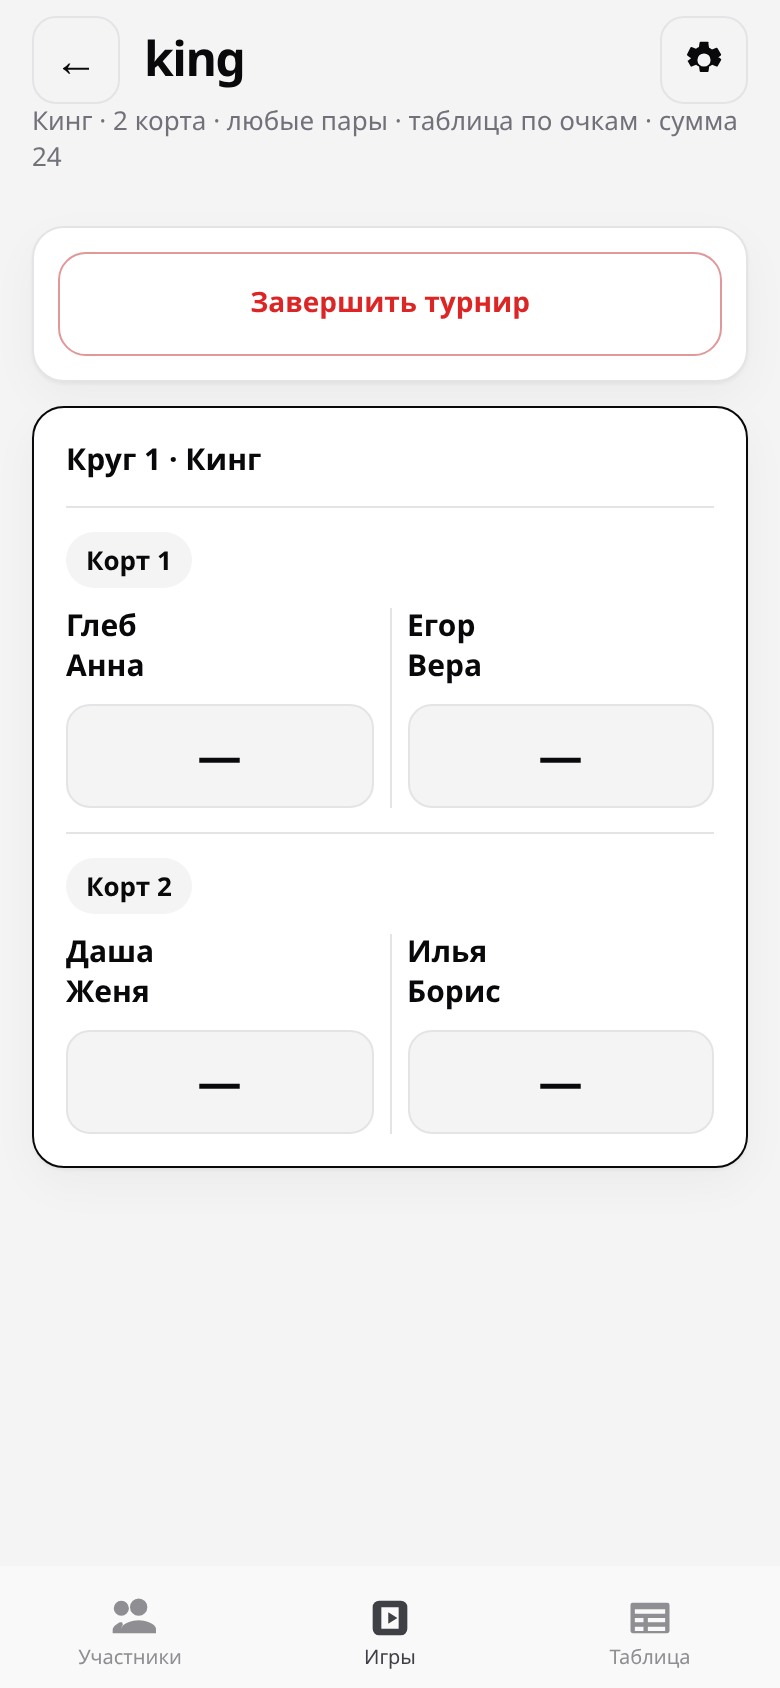
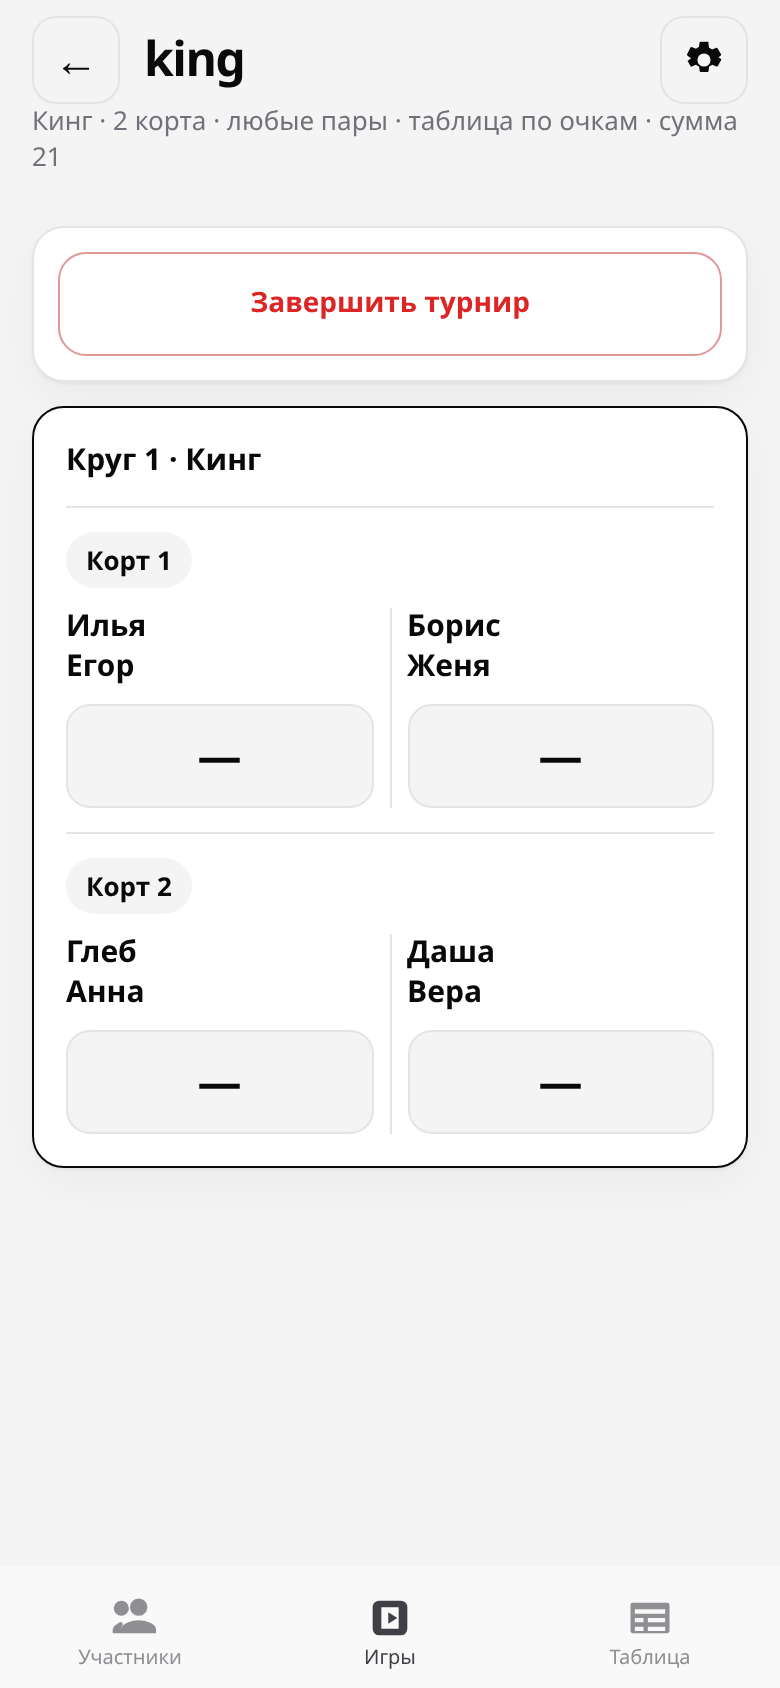
fix(tracker): sum-points chips 15/17/19/21 (#18)
Americano / «по сумме» presets were even (16/24/32). Chips are now
15, 17, 19, 21 and Своё on create and in-game settings. Saved 16/24/32
become custom. Default sum target is 21. Cache-bust to 0.7.13.

diff --git a/tracker/js/state.js b/tracker/js/state.js
@@ -24,18 +24,18 @@ export function defaultSettings() {
     pairLock: 'locked',
     lockedMatchups: 'strength',
     standingsSort: 'points',
-    totalPoints: 24,
-    customTotal: 24,
+    totalPoints: 21,
+    customTotal: 21,
   };
 }
 
-/** Настройки по формату. Lunda-подобные: сумма очков 16/21/24/32, без win-by-2. */
+/** Настройки по формату. Lunda-подобные: сумма очков 15/17/19/21, без win-by-2. */
 export function defaultSettingsFor(format) {
   const settings = defaultSettings();
   settings.tournamentFormat = format || 'free';
   if (format && format !== 'free') {
     settings.scoringMode = 'total';
-    settings.totalPoints = 24;
+    settings.totalPoints = 21;
     settings.winByTwo = false;
     settings.qualifyingEnabled = false;
     settings.pairLock = 'unlocked';
@@ -115,8 +115,14 @@ export function migrateSettings(rawSettings, rounds) {
   if (settings.scoringMode !== 'points' && settings.scoringMode !== 'games' && settings.scoringMode !== 'total') {
     settings.scoringMode = 'points';
   }
-  if (!['16', '21', '24', '32', 'custom', 16, 21, 24, 32].includes(settings.totalPoints)) {
-    settings.totalPoints = 24;
+  if (settings.totalPoints !== 'custom') {
+    const n = Number(settings.totalPoints);
+    if (!POINTS_PRESETS.includes(n)) {
+      settings.customTotal = Number.isFinite(n) ? n : Number(settings.customTotal) || 21;
+      settings.totalPoints = 'custom';
+    } else {
+      settings.totalPoints = n;
+    }
   }
   delete settings.roundsLimit;
   if (settings.pointsPreset !== 'custom') {

diff --git a/tracker/js/formats.js b/tracker/js/formats.js
@@ -23,22 +23,22 @@ export const FORMAT_OPTIONS = [
   {
     id: 'americano',
     title: 'Американо',
-    hint: 'Каждый с каждым в напарниках. Матч до суммы очков 16/21/24/32. Лишние сидят по очереди.',
+    hint: 'Каждый с каждым в напарниках. Матч до суммы очков 15/17/19/21. Лишние сидят по очереди.',
   },
   {
     id: 'mexicano',
     title: 'Мексикано',
-    hint: 'После круга группы по Δ: топ-4 на корт 1. Пары 1-4, 2-3 или 1-3, 2-4. Сумма очков 16–32.',
+    hint: 'После круга группы по Δ: топ-4 на корт 1. Пары 1-4, 2-3 или 1-3, 2-4. Сумма очков 15/17/19/21.',
   },
   {
     id: 'escalera',
     title: 'Эскалера',
-    hint: 'На корте три смены пар. Двое лучших вверх, двое худших вниз. Сумма очков 16–32.',
+    hint: 'На корте три смены пар. Двое лучших вверх, двое худших вниз. Сумма очков 15/17/19/21.',
   },
   {
     id: 'king',
     title: 'Кинг',
-    hint: 'Лучший из победителей вверх, слабый из проигравших вниз. Сумма очков 16–32.',
+    hint: 'Лучший из победителей вверх, слабый из проигравших вниз. Сумма очков 15/17/19/21.',
   },
 ];
 

diff --git a/tracker/index.html b/tracker/index.html
@@ -13,12 +13,12 @@
     <link rel="manifest" href="./manifest.webmanifest" />
     <link rel="apple-touch-icon" href="./icons/apple-touch-icon.png" sizes="180x180" />
     <link rel="icon" type="image/png" href="./icons/icon-192.png" sizes="192x192" />
-    <link rel="stylesheet" href="./styles.css?v=0.7.12" />
+    <link rel="stylesheet" href="./styles.css?v=0.7.13" />
   </head>
   <body>
     <div id="app">Загрузка…</div>
     <input id="import-file" type="file" accept="application/json,.json" hidden />
-    <script type="module" src="./js/app.js?v=0.7.12"></script>
+    <script type="module" src="./js/app.js?v=0.7.13"></script>
     <script>
       if ('serviceWorker' in navigator) {
         navigator.serviceWorker.register('./sw.js', { scope: './' }).catch(function () {});

diff --git a/tracker/js/render.js b/tracker/js/render.js
@@ -435,12 +435,10 @@ function renderTotalPointsFields(s, { draft = false } = {}) {
   return `
     <p class="field-label">Сумма очков</p>
     <div class="seg wrap">
-      ${[16, 21, 24, 32]
-        .map(
-          (v) =>
-            `<button type="button" class="seg-btn ${Number(n) === v ? 'is-on' : ''}" data-action="${total}" data-n="${v}">${v}</button>`,
-        )
-        .join('')}
+      ${POINTS_PRESETS.map(
+        (v) =>
+          `<button type="button" class="seg-btn ${Number(n) === v ? 'is-on' : ''}" data-action="${total}" data-n="${v}">${v}</button>`,
+      ).join('')}
       <button type="button" class="seg-btn ${n === 'custom' ? 'is-on' : ''}" data-action="${total}" data-n="custom">Своё</button>
     </div>
     ${

diff --git a/tracker/js/scoring.js b/tracker/js/scoring.js
@@ -7,8 +7,8 @@ export function pointsTarget(settings, roundKind) {
   if (roundKind === 'qualifying') return settings.qualifyingPoints;
   if (settings.scoringMode === 'total') {
     return settings.totalPoints === 'custom'
-      ? Number(settings.customTotal) || 24
-      : Number(settings.totalPoints) || 24;
+      ? Number(settings.customTotal) || 21
+      : Number(settings.totalPoints) || 21;
   }
   if (settings.scoringMode === 'points') {
     return settings.pointsPreset === 'custom'

diff --git a/tracker/sw.js b/tracker/sw.js
@@ -1,5 +1,5 @@
 /* Версия кэша = cache-bust трекера. При релизе подними вместе с ?v= в index.html. */
-const VERSION = '0.7.12';
+const VERSION = '0.7.13';
 const CACHE = `padel-tracker-v${VERSION}`;
 const ASSETS = [
   './',

diff --git a/CHANGELOG.md b/CHANGELOG.md
@@ -1,5 +1,10 @@
 # Changelog
 
+## 0.7.13 — пресеты суммы очков 15/17/19/21
+
+- Режим «по сумме очков» (Американо и шестерёнка в турнире): чипы **15, 17, 19, 21** и «Своё». Чётные 16/24/32 убраны.
+- Старые сохранённые 16/24/32 не ломаются: становятся «Своё» с тем же числом. Новые турниры по умолчанию — 21.
+
 ## 0.7.12 — воздух под шапкой и в таббаре
 
 - Между блоком заголовка (с подзаголовком) и первой карточкой +14px (`#main` padding-top) на всех экранах.
